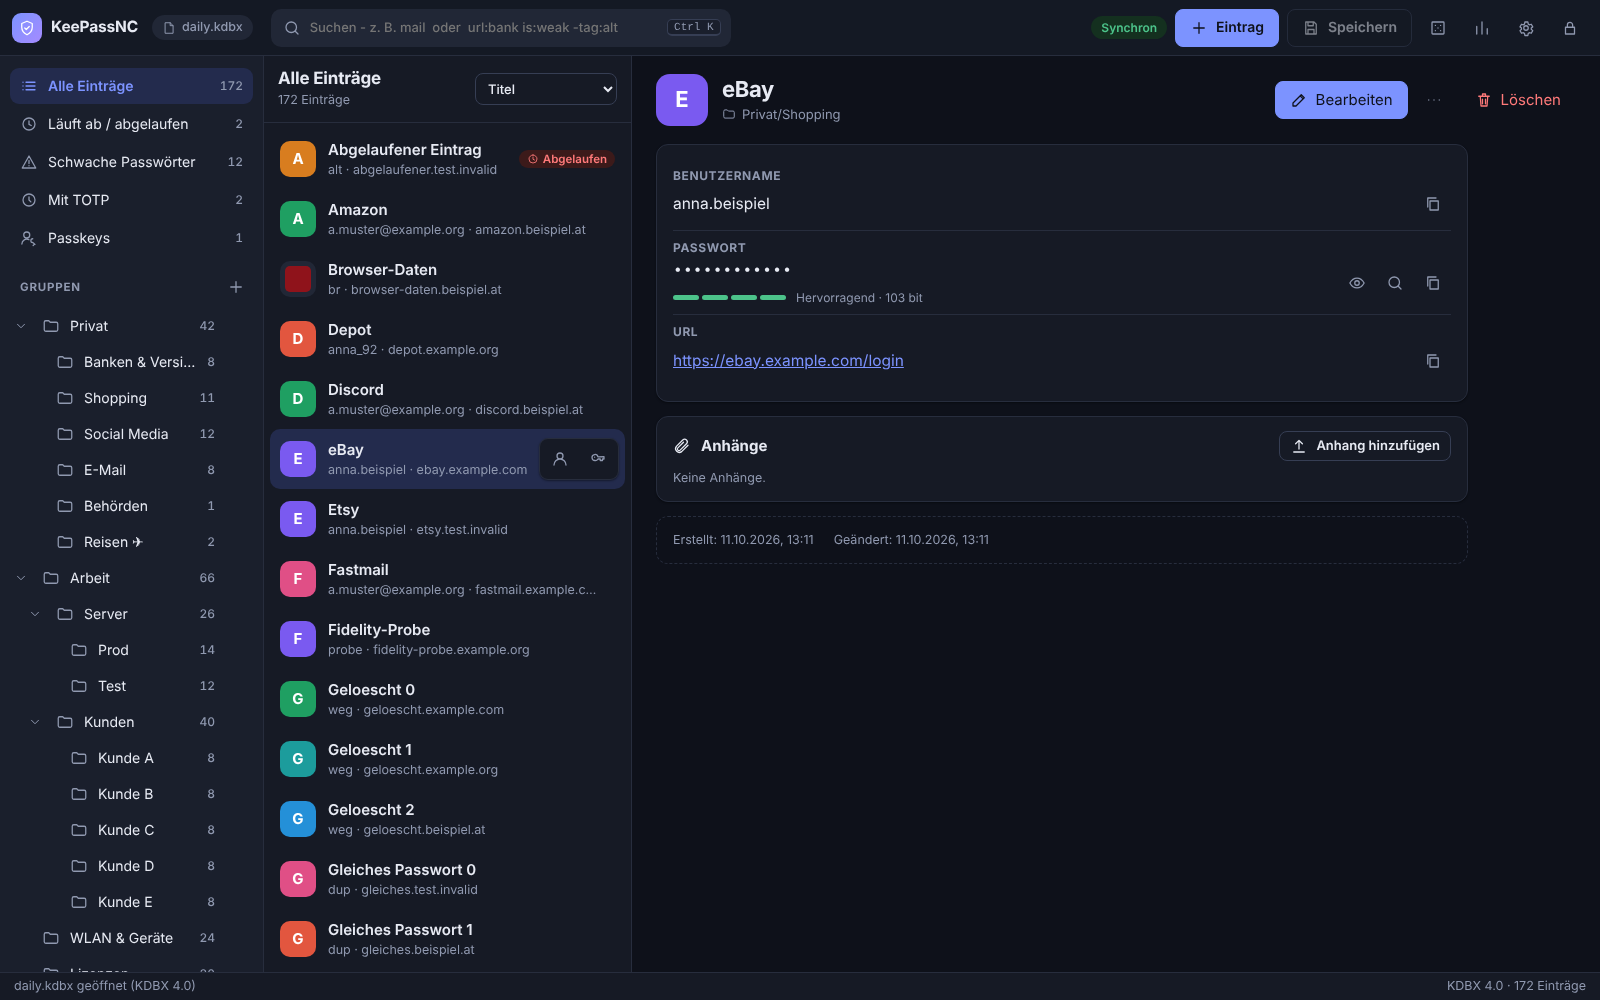
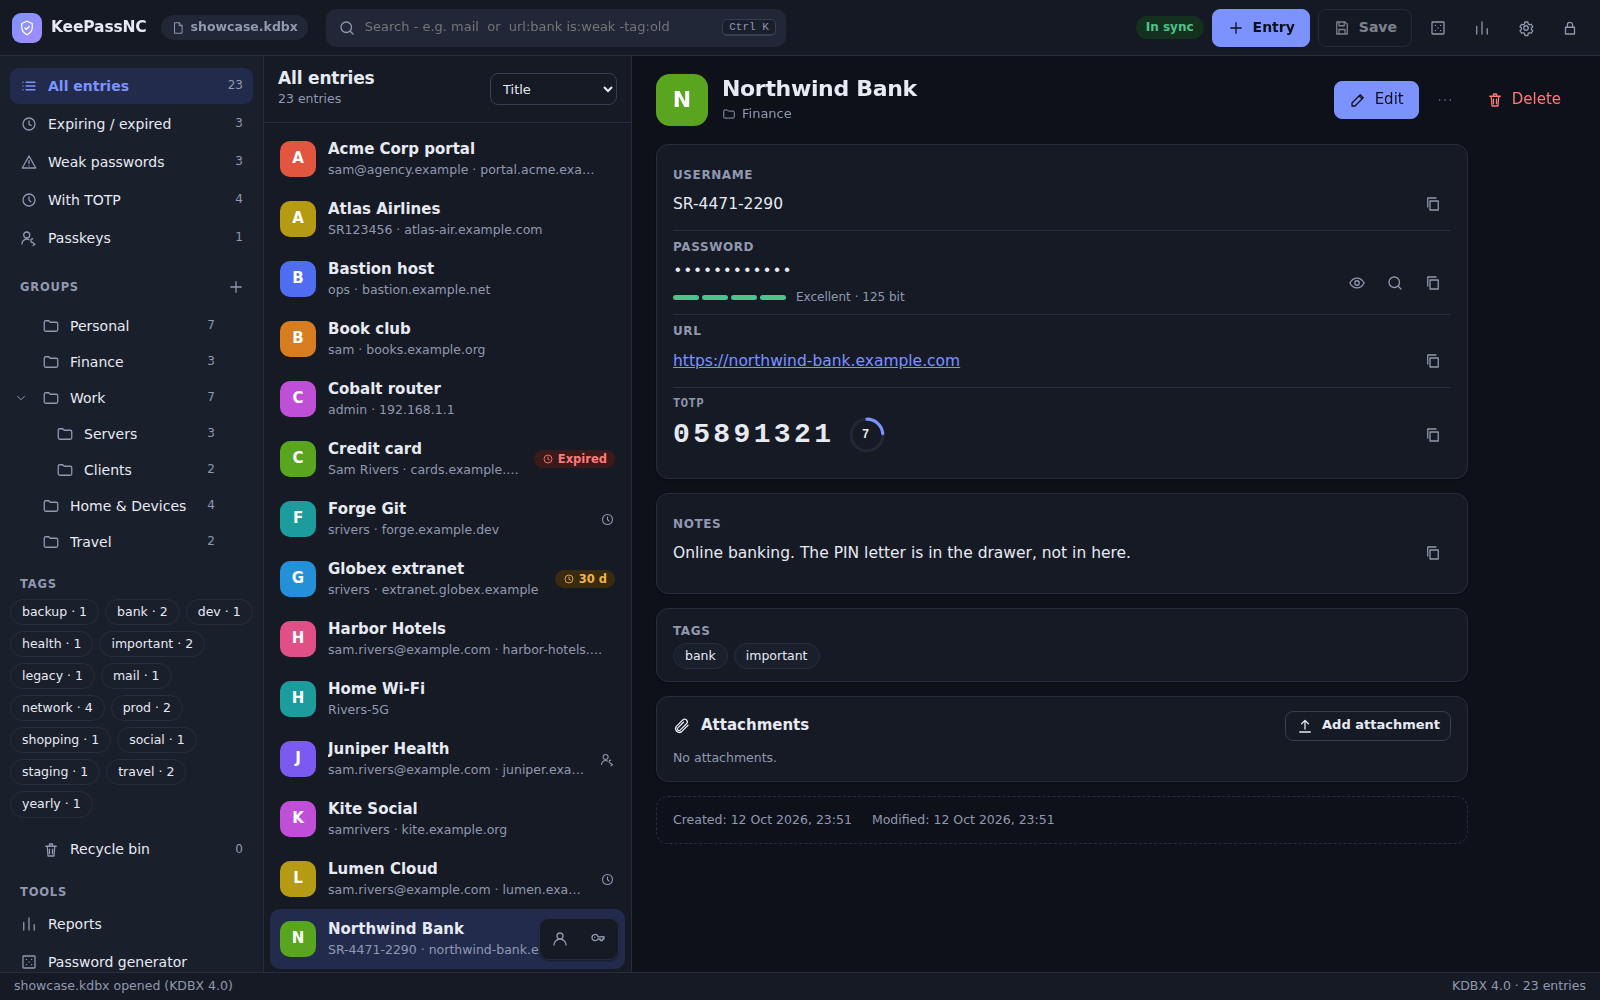
README: fresh screenshots from a made-up showcase database
tools/make-showcase.py builds an English database with invented services
(TOTP, tags, a passkey, an expired and a weak entry). tools/shots.mjs can
use it (SHOTS_DB, SHOTS_LANG, optional key file, entries picked by
title). Six of the shots go into the README; the old v0.5 ones go.

diff --git a/tools/make-showcase.py b/tools/make-showcase.py
@@ -1,0 +1,87 @@
+"""Builds a showcase database for the README screenshots: English, made-up services, no real data.
+Usage: python3 -I tools/make-showcase.py OUTDIR  ->  OUTDIR/showcase.kdbx + OUTDIR/showcase.json (password + what to click)."""
+import base64, json, os, random, sys
+from datetime import datetime, timedelta, timezone
+from pykeepass import create_database
+
+out = sys.argv[1]
+os.makedirs(out, exist_ok=True)
+db_path = os.path.join(out, 'showcase.kdbx')
+if os.path.exists(db_path):
+    os.remove(db_path)
+PASSWORD = 'correct horse battery staple'
+random.seed(7)
+kp = create_database(db_path, password=PASSWORD)
+root = kp.root_group
+now = datetime.now(timezone.utc)
+
+def strong(n=20):
+    chars = 'abcdefghijkmnopqrstuvwxyzABCDEFGHJKLMNPQRSTUVWXYZ23456789!#%&*+-=?@'
+    return ''.join(random.choice(chars) for _ in range(n))
+
+def group(parent, name):
+    return kp.add_group(parent, name)
+
+def entry(g, title, user, url, pw=None, notes=None, tags=None, otp=None, expires_in=None):
+    e = kp.add_entry(g, title, user, pw or strong(), url=url, notes=notes, tags=tags or [], force_creation=True)
+    if otp:
+        e.otp = otp
+    if expires_in is not None:
+        e.expires = True
+        e.expiry_time = now + timedelta(days=expires_in)
+    return e
+
+personal = group(root, 'Personal')
+finance = group(root, 'Finance')
+work = group(root, 'Work')
+servers = group(work, 'Servers')
+clients = group(work, 'Clients')
+home = group(root, 'Home & Devices')
+travel = group(root, 'Travel')
+
+entry(personal, 'Pebble Mail', 'sam.rivers@example.com', 'https://mail.example.com',
+      notes='Recovery codes are printed and in the drawer. Not on the fridge.', tags=['mail', 'important'],
+      otp='otpauth://totp/Pebble%20Mail:sam.rivers?secret=JBSWY3DPEHPK3PXP&issuer=Pebble%20Mail')
+entry(personal, 'Kite Social', 'samrivers', 'https://kite.example.org', tags=['social'])
+entry(personal, 'Sprout Groceries', 'sam.rivers@example.com', 'https://sprout.example.net', tags=['shopping'])
+entry(personal, 'Lumen Cloud', 'sam.rivers@example.com', 'https://lumen.example.com', tags=['backup'],
+      otp='otpauth://totp/Lumen:sam?secret=GEZDGNBVGY3TQOJQ&issuer=Lumen')
+entry(personal, 'Old forum account', 'sammy99', 'https://forum.example.org', pw='sunshine', tags=['legacy'])
+entry(personal, 'Book club', 'sam', 'https://books.example.org', pw='sunshine')
+pk = entry(personal, 'Juniper Health', 'sam.rivers@example.com', 'https://juniper.example.com', tags=['health'])
+for k, v, prot in [('KPEX_PASSKEY_USERNAME', 'sam.rivers@example.com', False),
+                   ('KPEX_PASSKEY_CREDENTIAL_ID', base64.urlsafe_b64encode(os.urandom(32)).decode().rstrip('='), True),
+                   ('KPEX_PASSKEY_PRIVATE_KEY_PEM', '-----BEGIN PRIVATE KEY-----\nMIGHAgEAMBMGByqGSM49AgEGCCqGSM49AwEHBG0wawIBAQQg\n-----END PRIVATE KEY-----', True),
+                   ('KPEX_PASSKEY_RELYING_PARTY', 'juniper.example.com', False),
+                   ('KPEX_PASSKEY_USER_HANDLE', base64.urlsafe_b64encode(os.urandom(16)).decode().rstrip('='), True)]:
+    pk.set_custom_property(k, v, protect=prot)
+
+entry(finance, 'Northwind Bank', 'SR-4471-2290', 'https://northwind-bank.example.com',
+      notes='Online banking. The PIN letter is in the drawer, not in here.', tags=['bank', 'important'],
+      otp='otpauth://totp/Northwind:SR-4471?secret=KRUGS4ZANFZSAYJA&issuer=Northwind&digits=8')
+entry(finance, 'Credit card', 'Sam Rivers', 'https://cards.example.com', tags=['bank'], expires_in=-12,
+      notes='Card replaced in spring. Update this entry.')
+entry(finance, 'Tax portal', 'sam.rivers', 'https://tax.example.gov', expires_in=9, tags=['yearly'])
+
+entry(servers, 'Production database', 'postgres', 'ssh://db.prod.example.net', tags=['prod'],
+      notes='Port 5432 only via the bastion host.')
+entry(servers, 'Bastion host', 'ops', 'ssh://bastion.example.net', tags=['prod'])
+entry(servers, 'Staging', 'deploy', 'https://staging.example.net', tags=['staging'])
+entry(work, 'Forge Git', 'srivers', 'https://forge.example.dev', tags=['dev'],
+      otp='otpauth://totp/Forge:srivers?secret=MFRGGZDFMZTWQ2LK&issuer=Forge')
+entry(work, 'Team chat', 'sam.rivers@work.example', 'https://chat.work.example')
+entry(clients, 'Acme Corp portal', 'sam@agency.example', 'https://portal.acme.example')
+entry(clients, 'Globex extranet', 'srivers', 'https://extranet.globex.example', expires_in=30)
+
+entry(home, 'Cobalt router', 'admin', 'http://192.168.1.1', notes='Firmware auto-update is on.', tags=['network'])
+entry(home, 'Home Wi-Fi', 'Rivers-5G', '', notes='Guest network: Rivers-Guest', tags=['network'])
+entry(home, 'Printer', 'admin', 'http://192.168.1.20', pw='admin1', tags=['network'])
+entry(home, 'Orbit VPN', 'sam.rivers@example.com', 'https://orbit-vpn.example.com', tags=['network'])
+
+entry(travel, 'Atlas Airlines', 'SR123456', 'https://atlas-air.example.com', notes='Frequent flyer: Silver', tags=['travel'])
+entry(travel, 'Harbor Hotels', 'sam.rivers@example.com', 'https://harbor-hotels.example.com', tags=['travel'])
+
+kp.save()
+json.dump({'password': PASSWORD, 'picks': {'detail': 'Pebble Mail', 'dark': 'Northwind Bank', 'mobile': 'Juniper Health'}},
+          open(os.path.join(out, 'showcase.json'), 'w'))
+print(f'{db_path}: {len(kp.entries)} entries')

diff --git a/README.md b/README.md
@@ -5,6 +5,14 @@ Your KeePass file, opened in a browser tab, on your own Nextcloud. That's it. Th
 KeeWeb stopped getting updates, so this is its replacement: it reads and writes plain **KDBX 3.1 / 4.x** files, so
 KeePassXC, KeePassDX and Strongbox keep working on the very same file. No lock-in, no special format, no drama.
 
+![KeePassNC on a desktop: groups and tags on the left, the entry list, and an entry with a live TOTP code](docs/screenshots/desktop-detail.png)
+
+<p>
+  <img src="docs/screenshots/dark-detail.png" width="62%" alt="Dark mode">
+  <img src="docs/screenshots/mobile-list.png" width="18%" alt="Entry list on a phone">
+  <img src="docs/screenshots/mobile-detail.png" width="18%" alt="Entry with a passkey on a phone">
+</p>
+
 ## How it behaves
 
 - **Everything is decrypted in your browser.** The master password and the plaintext never leave it. The server only ever sees the
@@ -23,6 +31,11 @@ drop, recycle bin, tags, expiry, attachments, entry history, TOTP (Steam Guard t
 password and passphrase generator, a health report (weak, reused, expired), files shared with you (read-only shares say so), and an
 opt-in "remember my key file" helper. That one is tied to a server-side secret, so a copied browser profile alone can't be used to
 guess your master password. Design notes: [`docs/KEYFILE-MEMORY.md`](docs/KEYFILE-MEMORY.md).
+
+<p>
+  <img src="docs/screenshots/desktop-reports.png" width="49%" alt="Health report: weak, reused and expiring passwords">
+  <img src="docs/screenshots/desktop-generator.png" width="49%" alt="Password generator">
+</p>
 
 Shortcuts: `Ctrl+K` palette, `Ctrl+F` search, `Ctrl+N` new, `Ctrl+S` save, `Ctrl+L` lock, `Ctrl+B` copy user, `Ctrl+C` copy password,
 `Ctrl+Shift+U` open URL, `Del` delete.
@@ -60,7 +73,8 @@ NC_DIR=/path/to/nextcloud NC_PORT=18035 npm run test:nc   # fresh Nextcloud inst
 Needs Node 22, `keepassxc-cli` 2.7, Python 3 with `pykeepass`, and Chromium (set `CHROMIUM`) or Playwright's browsers.
 `.github/workflows/nextcloud.yml` shows the whole setup. Layout: `src/` app code (`src/ui/` interface, `src/vault.js` the interesting
 part), `vendor/kdbxweb/` the KDBX library, `nextcloud-app/keepassnc/` the Nextcloud wrapper, `tests/` the safety net.
-Contributions: [`CONTRIBUTING.md`](CONTRIBUTING.md).
+Contributions: [`CONTRIBUTING.md`](CONTRIBUTING.md). The screenshots come from `tools/make-showcase.py` (made-up data) and
+`tools/shots.mjs`.
 
 ## Not tested yet
 
